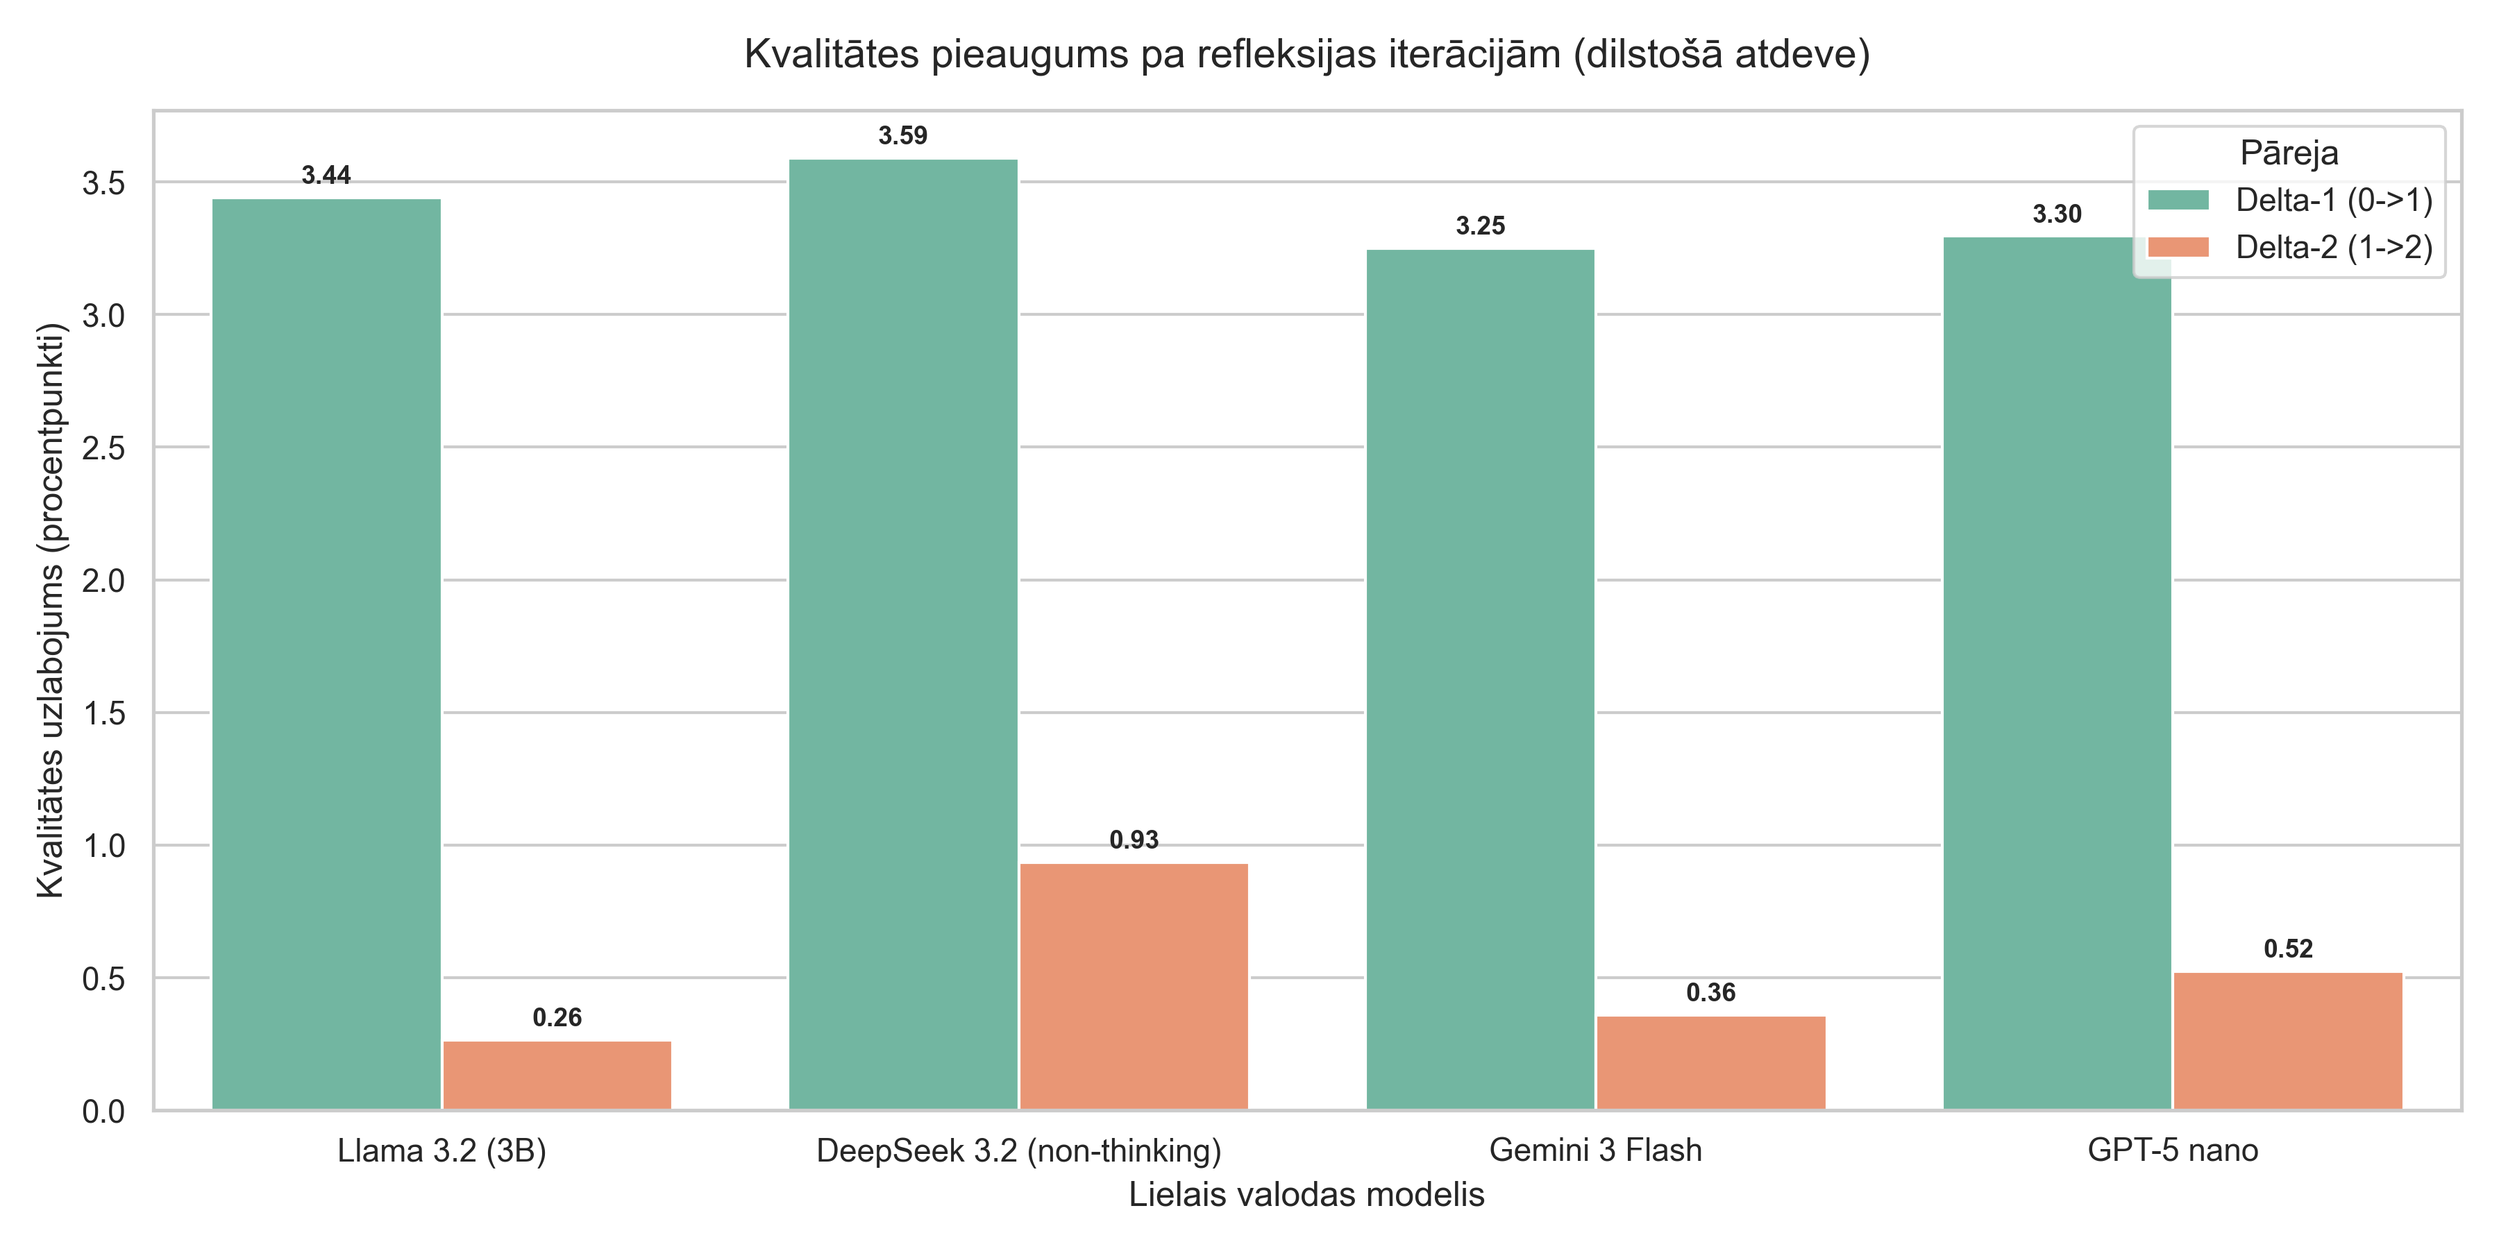
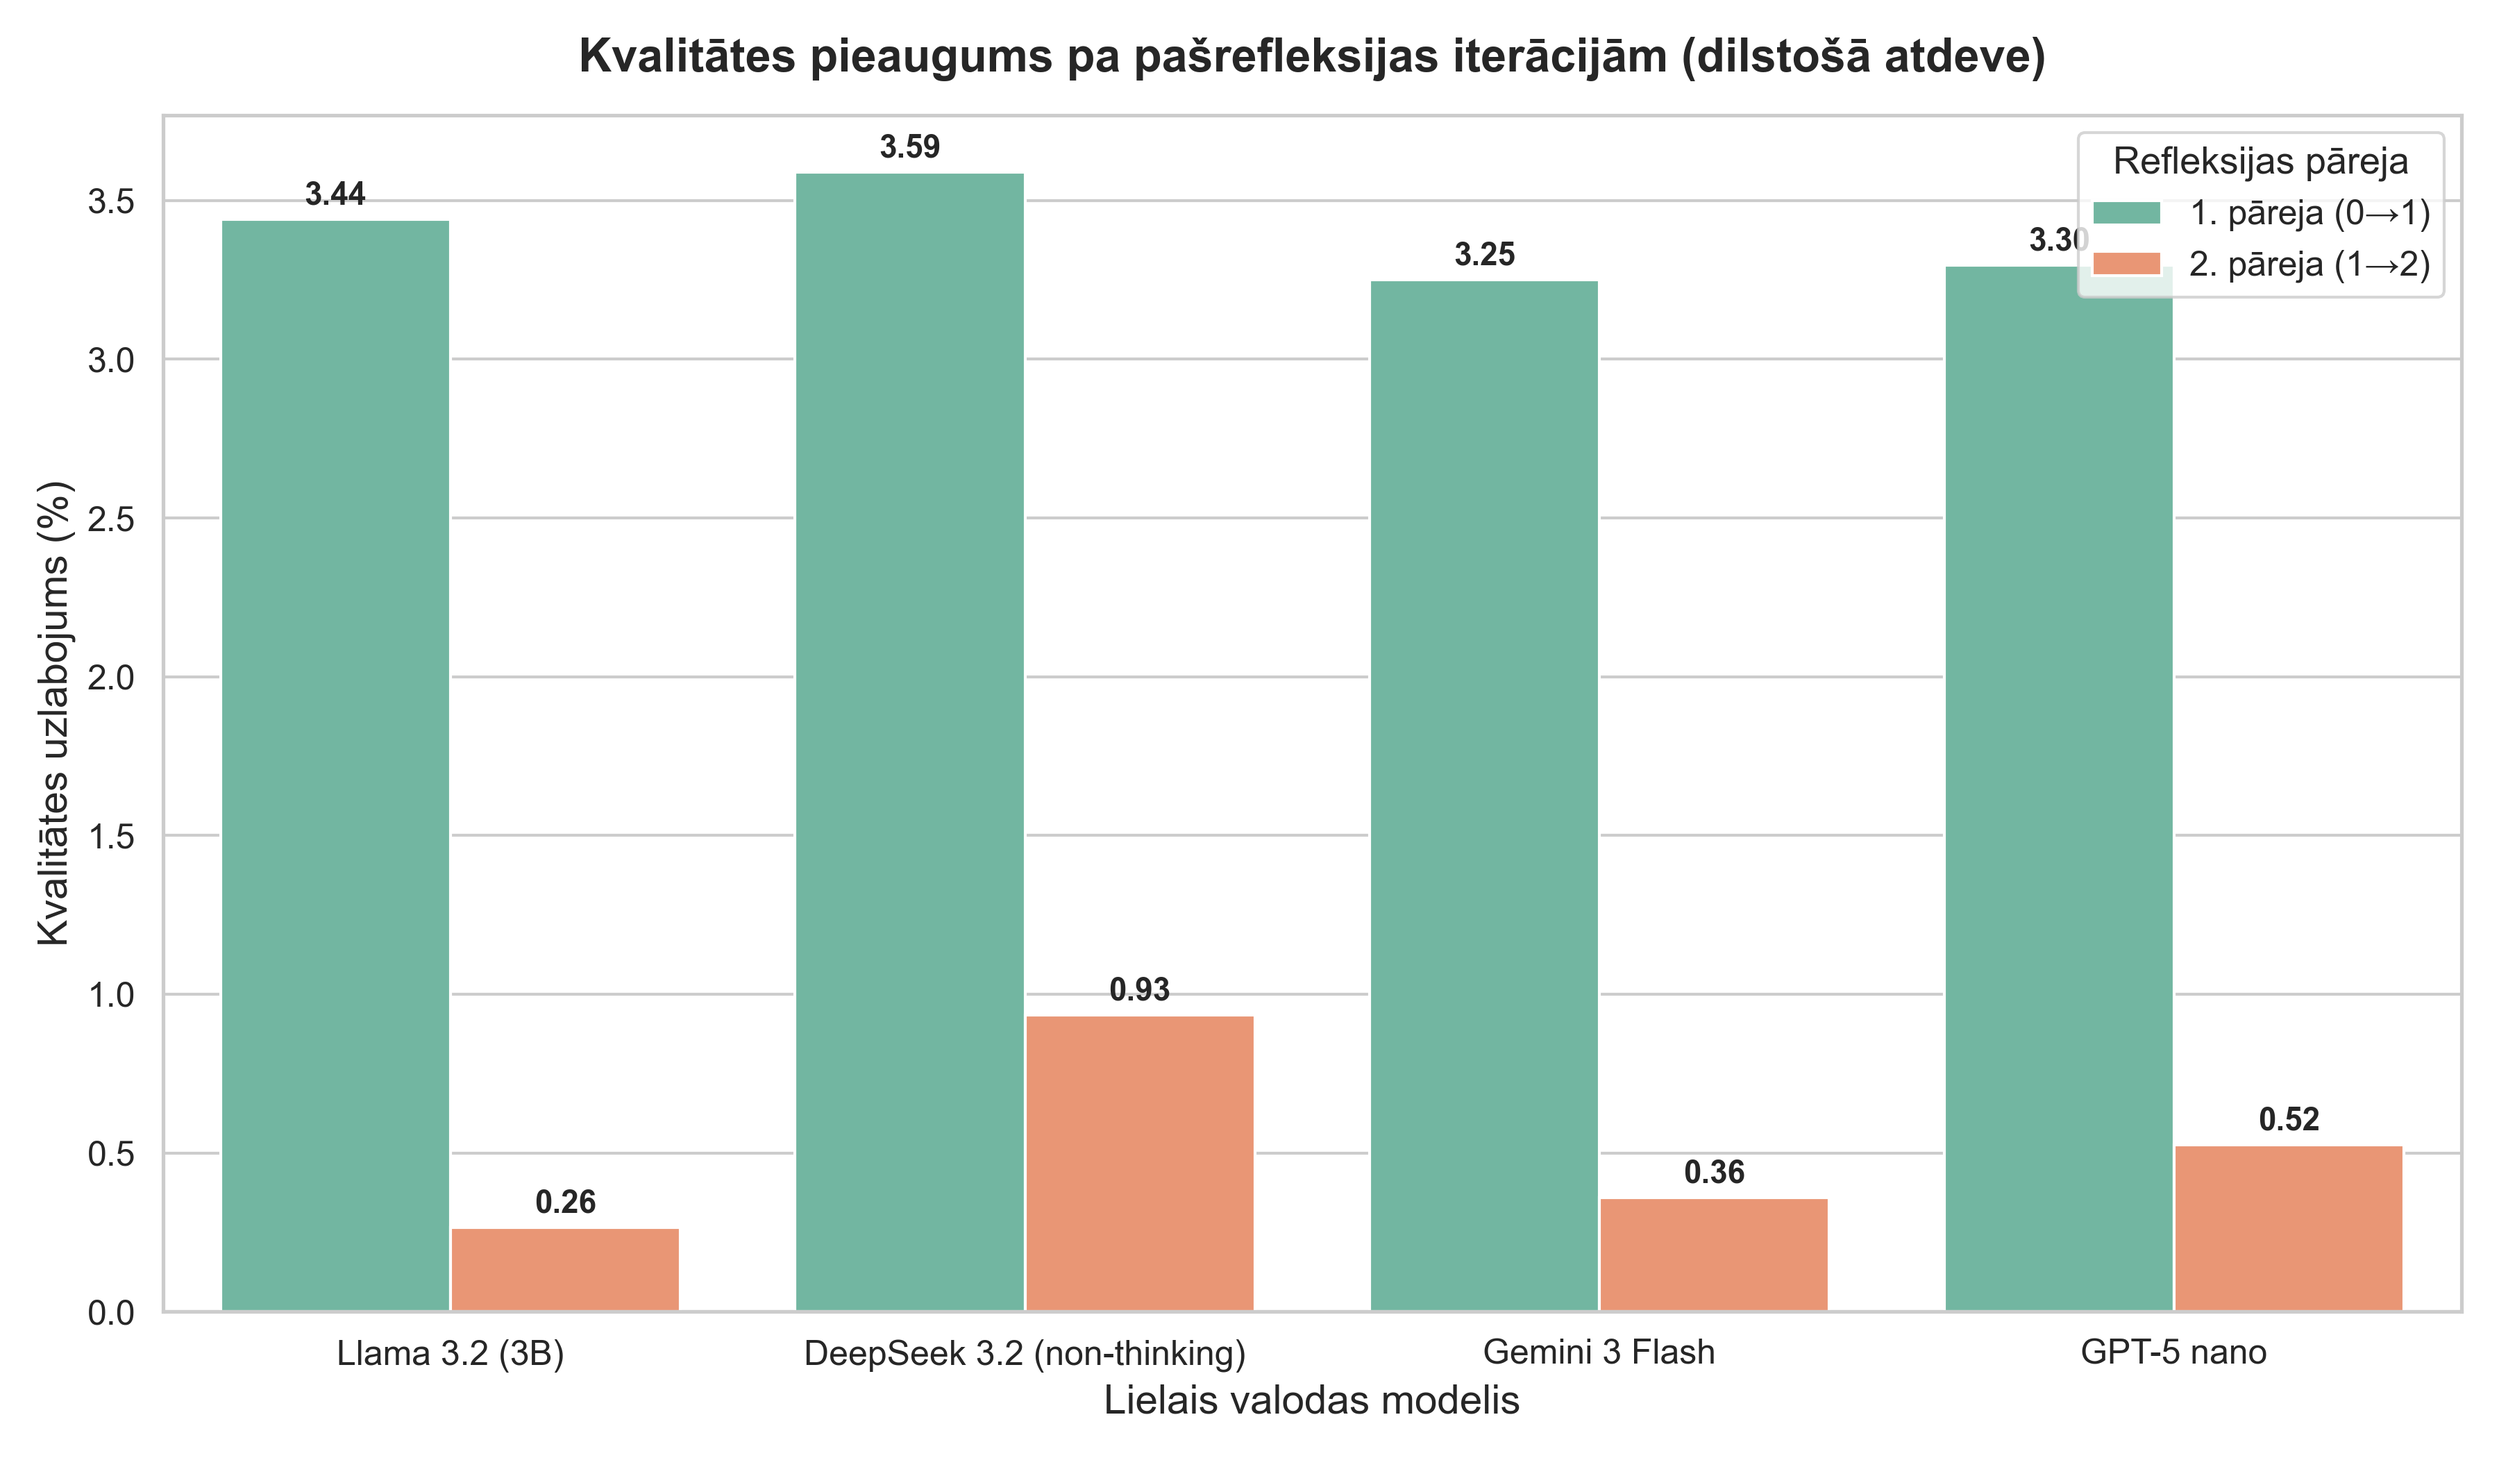
Add more charts

diff --git a/eval/result_analysis/chart.py b/eval/result_analysis/chart.py
@@ -93,6 +93,17 @@ CHARTS:
 
 25_paired_comparison        - Paired bars with arrows: before/after.
                               Direct visual of improvement with direction arrows.
+
+26_delta_hitl               - Delta chart grouped by HITL status.
+                              Shows total improvement (0→2) comparing with/without HITL.
+                              Demonstrates substitution effect: models without HITL
+                              benefit more from reflections.
+
+27_delta_bez_hitl           - Same layout as 04 but for "Bez HITL" condition only.
+                              Shows Delta-1 and Delta-2 without human involvement.
+
+28_delta_ar_hitl            - Same layout as 04 but for "Ar HITL" condition only.
+                              Shows Delta-1 and Delta-2 with human involvement.
 """
 
 import matplotlib.pyplot as plt
@@ -241,12 +252,12 @@ for model in modeli:
         scores = df[(df['Modelis'] == model) & (df['HITL'] == hitl)].sort_values('Iterācija')['Kvalitāte'].values
         delta1 = scores[1] - scores[0]
         delta2 = scores[2] - scores[1]
-        delta_data.append({'Modelis': model, 'HITL': hitl, 'Delta': 'Delta-1 (0->1)', 'Uzlabojums': delta1})
-        delta_data.append({'Modelis': model, 'HITL': hitl, 'Delta': 'Delta-2 (1->2)', 'Uzlabojums': delta2})
+        delta_data.append({'Modelis': model, 'HITL': hitl, 'Delta': '1. pāreja (0→1)', 'Uzlabojums': delta1})
+        delta_data.append({'Modelis': model, 'HITL': hitl, 'Delta': '2. pāreja (1→2)', 'Uzlabojums': delta2})
 
 delta_df = pd.DataFrame(delta_data)
 
-plt.figure(figsize=(12, 6))
+plt.figure(figsize=(12, 7))
 barplot4 = sns.barplot(
     data=delta_df,
     x='Modelis',
@@ -256,10 +267,13 @@ barplot4 = sns.barplot(
     errorbar=None
 )
 
-plt.title('Kvalitātes pieaugums pa refleksijas iterācijām (dilstošā atdeve)', fontsize=14, pad=15)
-plt.xlabel('Lielais valodas modelis', fontsize=12)
-plt.ylabel('Kvalitātes uzlabojums (procentpunkti)', fontsize=12)
+plt.title('Kvalitātes pieaugums pa pašrefleksijas iterācijām (dilstošā atdeve)', fontsize=16, fontweight='bold', pad=15)
+plt.xlabel('Lielais valodas modelis', fontsize=14)
+plt.ylabel('Kvalitātes uzlabojums (%)', fontsize=14)
 plt.axhline(y=0, color='gray', linestyle='--', linewidth=0.8)
+
+plt.xticks(fontsize=12)
+plt.yticks(fontsize=12)
 
 for p in barplot4.patches:
     height = p.get_height()
@@ -269,9 +283,9 @@ for p in barplot4.patches:
                        ha='center', va='bottom' if height > 0 else 'top',
                        xytext=(0, 3 if height > 0 else -3),
                        textcoords='offset points',
-                       fontsize=9, fontweight='bold')
+                       fontsize=11, fontweight='bold')
 
-plt.legend(title='Pāreja', loc='upper right')
+plt.legend(title='Refleksijas pāreja', loc='upper right', fontsize=12, title_fontsize=13)
 plt.tight_layout()
 plt.savefig(os.path.join(OUTPUT_DIR, '04_delta_uzlabojums.png'))
 plt.close()
@@ -1165,3 +1179,127 @@ plt.close()
 print("Generated: 25_paired_comparison.png")
 
 print(f"\nAll charts saved to: {OUTPUT_DIR}")
+
+# =============================================================================
+# Chart 26: Delta chart with HITL comparison
+# Similar to chart 04 but grouped by HITL status instead of delta type
+# Shows total improvement from reflections (0→2) for each model with/without HITL
+# =============================================================================
+plt.figure(figsize=(12, 7))
+
+# Calculate total improvement (0→2) for each model and HITL status
+hitl_delta_data = []
+for model in modeli:
+    for hitl in hitl_opcijas:
+        scores = df[(df['Modelis'] == model) & (df['HITL'] == hitl)].sort_values('Iterācija')['Kvalitāte'].values
+        total_improvement = scores[2] - scores[0]
+        hitl_delta_data.append({
+            'Modelis': model,
+            'HITL': hitl,
+            'Uzlabojums': total_improvement
+        })
+
+hitl_delta_df = pd.DataFrame(hitl_delta_data)
+
+# Rename HITL values for better academic Latvian
+hitl_delta_df['HITL'] = hitl_delta_df['HITL'].replace({
+    'Bez HITL': 'Bez cilvēka iesaistes',
+    'Ar HITL': 'Ar cilvēka iesaisti'
+})
+
+barplot26 = sns.barplot(
+    data=hitl_delta_df,
+    x='Modelis',
+    y='Uzlabojums',
+    hue='HITL',
+    palette=['#66c2a5', '#fc8d62'],
+    errorbar=None
+)
+
+plt.title('Kvalitātes pieaugums no pašrefleksijas iterācijām\natkarībā no cilvēka iesaistes', fontsize=16, pad=15, fontweight='bold')
+plt.xlabel('Lielais valodas modelis', fontsize=14)
+plt.ylabel('Kvalitātes uzlabojums (%)', fontsize=14)
+plt.axhline(y=0, color='gray', linestyle='--', linewidth=0.8)
+
+# Larger tick labels
+plt.xticks(fontsize=12)
+plt.yticks(fontsize=12)
+
+for p in barplot26.patches:
+    height = p.get_height()
+    if height != 0:
+        barplot26.annotate(format(height, '.2f'),
+                       (p.get_x() + p.get_width() / 2., height),
+                       ha='center', va='bottom' if height > 0 else 'top',
+                       xytext=(0, 3 if height > 0 else -3),
+                       textcoords='offset points',
+                       fontsize=11, fontweight='bold')
+
+plt.legend(title='Cilvēka iesaiste (HITL)', loc='upper right', fontsize=12, title_fontsize=13)
+plt.tight_layout()
+plt.savefig(os.path.join(OUTPUT_DIR, '26_delta_hitl.png'))
+plt.close()
+print("Generated: 26_delta_hitl.png")
+
+# =============================================================================
+# Chart 27 & 28: Delta charts for each HITL condition (same layout as 04)
+# Separate charts showing Delta-1 and Delta-2 for without/with HITL
+# =============================================================================
+hitl_config = {
+    'Bez HITL': {
+        'title': 'Bez cilvēka iesaistes',
+        'filename': '27_delta_bez_hitl.png'
+    },
+    'Ar HITL': {
+        'title': 'Ar cilvēka iesaisti',
+        'filename': '28_delta_ar_hitl.png'
+    }
+}
+
+for hitl, config in hitl_config.items():
+    plt.figure(figsize=(12, 7))
+
+    # Calculate deltas for this HITL condition
+    delta_data_hitl = []
+    for model in modeli:
+        scores = df[(df['Modelis'] == model) & (df['HITL'] == hitl)].sort_values('Iterācija')['Kvalitāte'].values
+        delta1 = scores[1] - scores[0]
+        delta2 = scores[2] - scores[1]
+        delta_data_hitl.append({'Modelis': model, 'Delta': '1. pāreja (0→1)', 'Uzlabojums': delta1})
+        delta_data_hitl.append({'Modelis': model, 'Delta': '2. pāreja (1→2)', 'Uzlabojums': delta2})
+
+    delta_df_hitl = pd.DataFrame(delta_data_hitl)
+
+    barplot_hitl = sns.barplot(
+        data=delta_df_hitl,
+        x='Modelis',
+        y='Uzlabojums',
+        hue='Delta',
+        palette='Set2',
+        errorbar=None
+    )
+
+    plt.title(f'Kvalitātes pieaugums pa pašrefleksijas iterācijām (dilstošā atdeve)\n{config["title"]}',
+              fontsize=16, fontweight='bold', pad=15)
+    plt.xlabel('Lielais valodas modelis', fontsize=14)
+    plt.ylabel('Kvalitātes uzlabojums (%)', fontsize=14)
+    plt.axhline(y=0, color='gray', linestyle='--', linewidth=0.8)
+
+    plt.xticks(fontsize=12)
+    plt.yticks(fontsize=12)
+
+    for p in barplot_hitl.patches:
+        height = p.get_height()
+        if height != 0:
+            barplot_hitl.annotate(format(height, '.2f'),
+                           (p.get_x() + p.get_width() / 2., height),
+                           ha='center', va='bottom' if height > 0 else 'top',
+                           xytext=(0, 3 if height > 0 else -3),
+                           textcoords='offset points',
+                           fontsize=11, fontweight='bold')
+
+    plt.legend(title='Refleksijas pāreja', loc='upper right', fontsize=12, title_fontsize=13)
+    plt.tight_layout()
+    plt.savefig(os.path.join(OUTPUT_DIR, config['filename']))
+    plt.close()
+    print(f"Generated: {config['filename']}")
